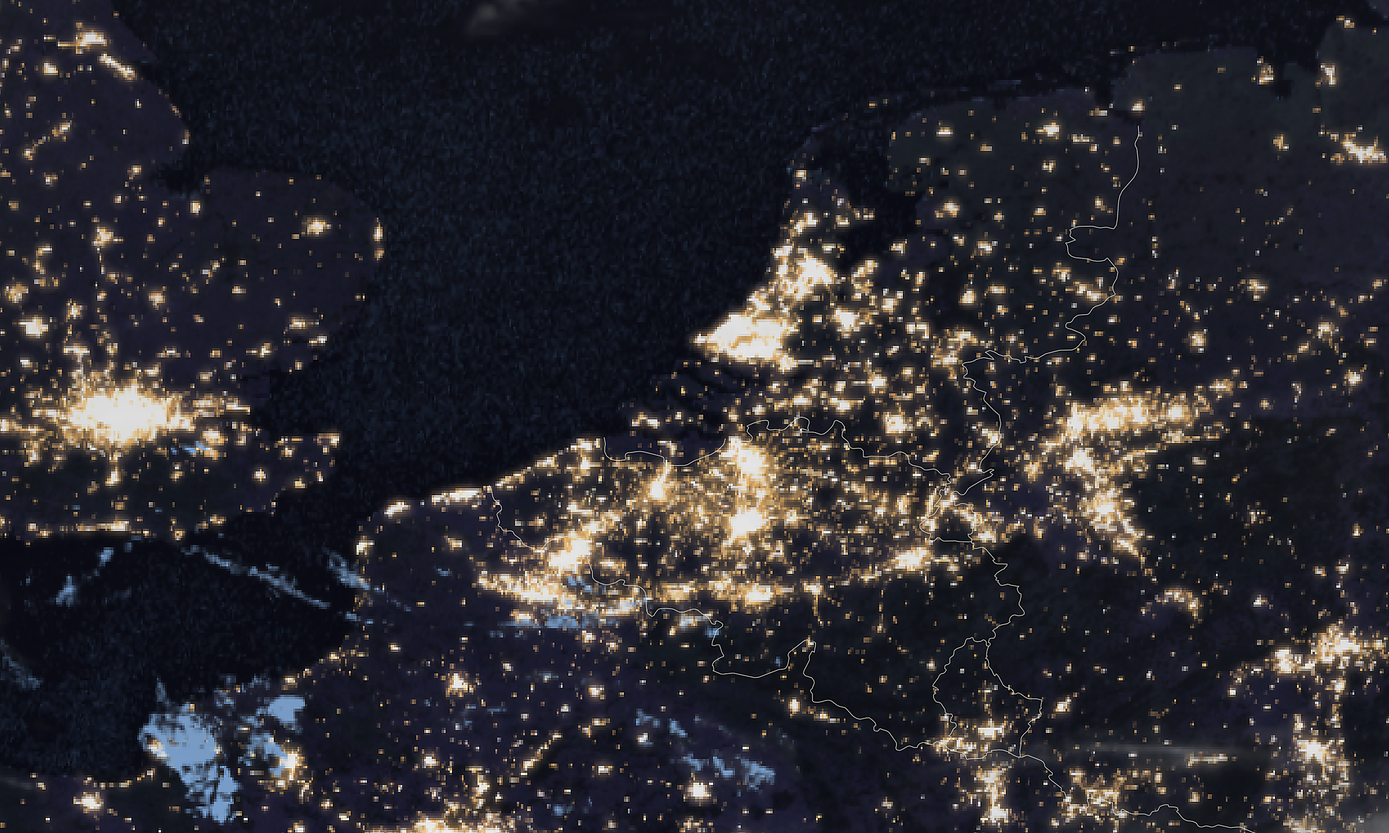
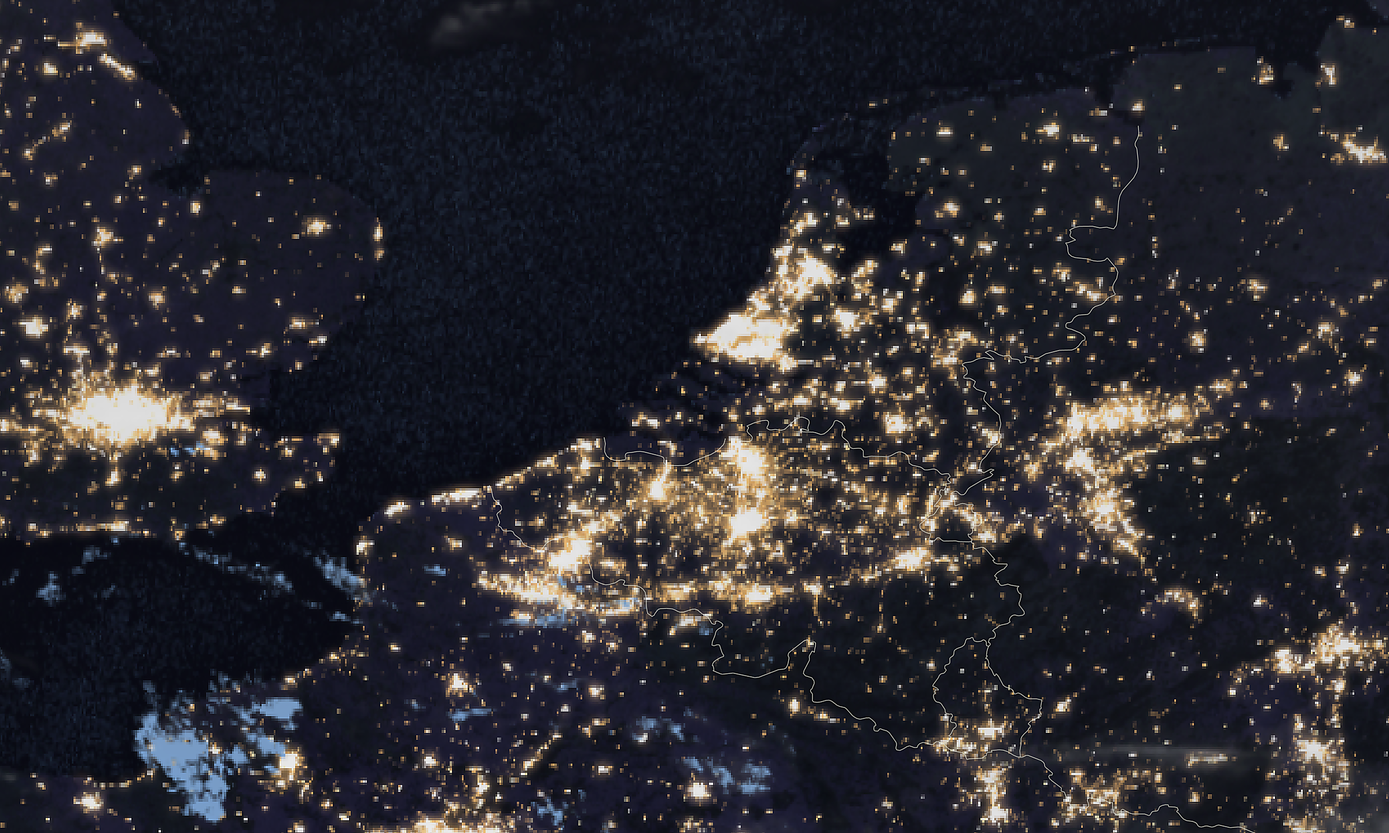
MTG Benelux satellietbeeld update 2026-04-29 03:15

diff --git a/mtg_benelux_meta.js b/mtg_benelux_meta.js
@@ -1,2 +1,2 @@
 const MTG_BENELUX_PRODUCT = "mtg_fd:rgb_geocolour";
-const MTG_BENELUX_TIJD = "2026-04-29T00:40:00Z";
+const MTG_BENELUX_TIJD = "2026-04-29T00:50:00Z";
